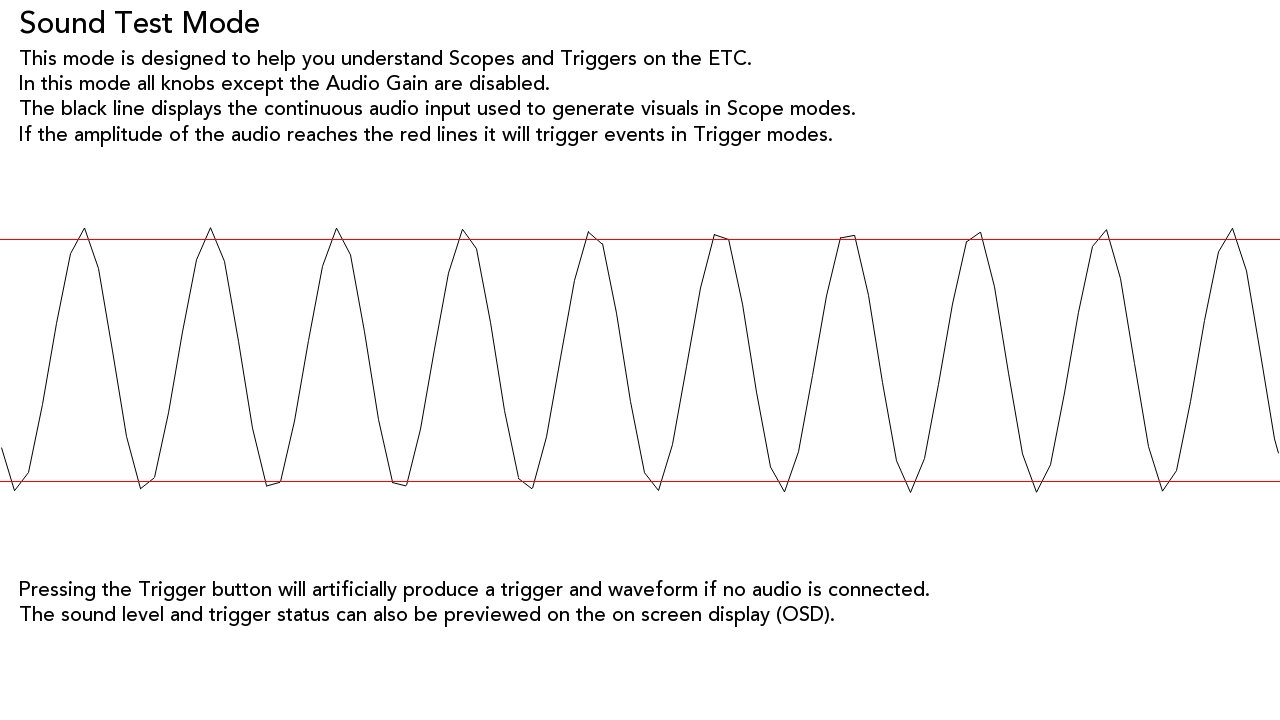
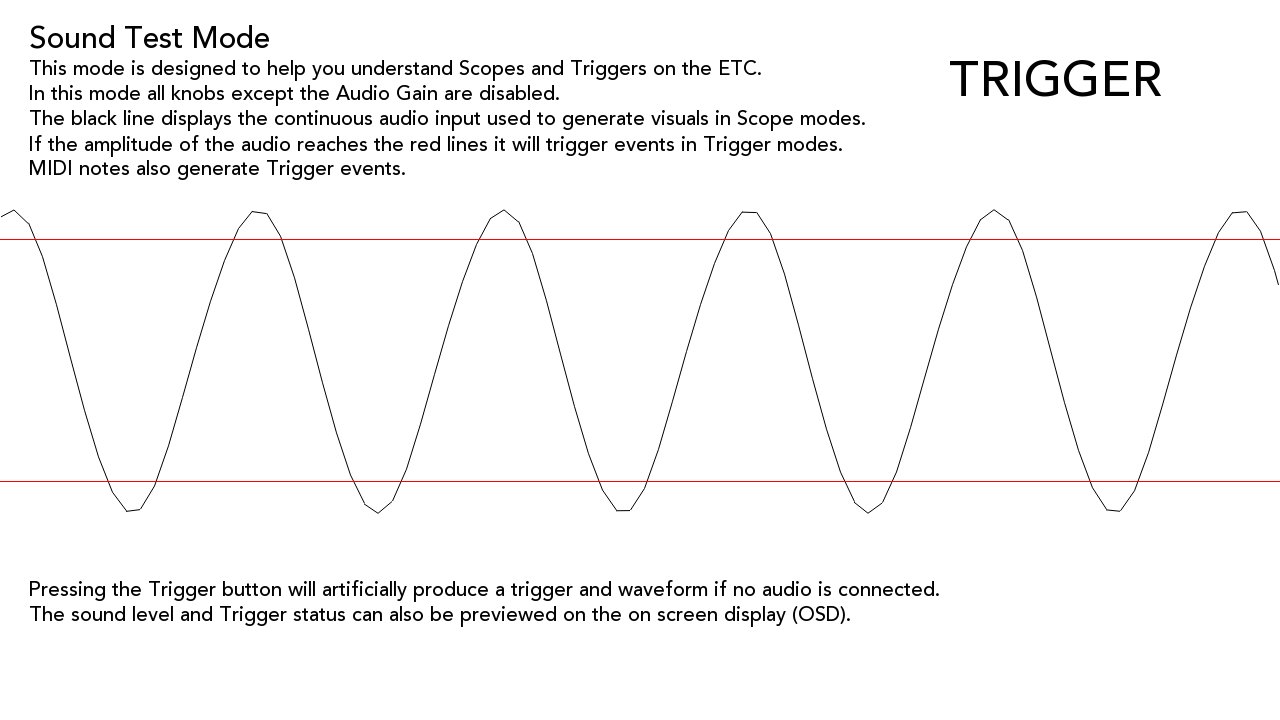
fix line, text

diff --git a/0 - Sound & MIDI Evaluation/main.py b/0 - Sound & MIDI Evaluation/main.py
@@ -15,13 +15,7 @@ def setup(screen, etc):
 
 def draw(screen, etc):
     global string1, trigger
-    # this is the user sound evaluation mode. 
-    #Designed to help you understand how an oscillascope mode works, and how sonic events are turned to triggers
-    # in this mode no knobs work, and the persist button except audio gain
-    # with the etc recieving sound from via the audio input jack the black line will display the waveform of that audio.
-    # if the amplitude of the audio reaches the red lines it will trigger
-    # you can also set a trigger with the onboard trigger button.
-    # the amplitude and trigger correspond to audio level meter and trigger box in the OSD
+    
     pygame.draw.rect(screen, (255,255,255), ((0,0),(1280,720)), 0)
     
     font1 = pygame.freetype.Font(etc.mode_root + "/font.ttf", 50)
@@ -31,37 +25,42 @@ def draw(screen, etc):
     font2 = pygame.freetype.Font(etc.mode_root + "/font.ttf", 30)
     string2 = unicode("Sound Test Mode")
     (text2, textpos2) = font2.render(string2, (0,0,0))
-    textpos2 = (20, 10)
+    textpos2 = (30, 25)
     
     font3 = pygame.freetype.Font(etc.mode_root + "/font.ttf", 20)
     string3 = unicode("This mode is designed to help you understand Scopes and Triggers on the ETC.")
     (text3, textpos3) = font3.render(string3, (0,0,0))
-    textpos3 = (20, 50)
+    textpos3 = (30, 60)
     
     
     string4 = unicode("In this mode all knobs except the Audio Gain are disabled.")
     (text4, textpos4) = font3.render(string4, (0,0,0))
-    textpos4 = (20, 75)
+    textpos4 = (30, 85)
     
     
     string5 = unicode("The black line displays the continuous audio input used to generate visuals in Scope modes.")
     (text5, textpos5) = font3.render(string5, (0,0,0))
-    textpos5 = (20, 100)
+    textpos5 = (30, 110)
     
     
     string6 = unicode("If the amplitude of the audio reaches the red lines it will trigger events in Trigger modes.")
     (text6, textpos6) = font3.render(string6, (0,0,0))
-    textpos6 = (20, 125)
+    textpos6 = (30, 135)
+    
+    
+    string6b = unicode("MIDI notes also generate Trigger events.")
+    (text6b, textpos6b) = font3.render(string6b, (0,0,0))
+    textpos6b = (30, 160)
     
     
     string7 = unicode("Pressing the Trigger button will artificially produce a trigger and waveform if no audio is connected.")
     (text7, textpos7) = font3.render(string7, (0,0,0))
-    textpos7 = (20, 580)
+    textpos7 = (30, 580)
     
     
-    string8 = unicode("The sound level and trigger status can also be previewed on the on screen display (OSD).")
+    string8 = unicode("The sound level and Trigger status can also be previewed on the on screen display (OSD).")
     (text8, textpos8) = font3.render(string8, (0,0,0))
-    textpos8 = (20, 605)
+    textpos8 = (30, 605)
     
     
     if trigger == False : string1 = unicode("")
@@ -81,6 +80,7 @@ def draw(screen, etc):
     screen.blit(text4, textpos4)
     screen.blit(text5, textpos5)
     screen.blit(text6, textpos6)
+    screen.blit(text6b, textpos6b)
     screen.blit(text7, textpos7)
     screen.blit(text8, textpos8)
     

diff --git a/S - Connected Scope/main.py b/S - Connected Scope/main.py
@@ -6,14 +6,13 @@ import random
 last_point = [0, 360]
 first_point = []
 
-color = (255,0,255)
-colorList = []
 
 def setup(screen, etc):
     pass
 
 def draw(screen, etc):
-    global last_point, first_point, color, colorList
+    global last_point, first_point
+    
     for i in range(0, 100) :
         lineseg(screen, etc, i)
     for i in range(0, 100) :
@@ -23,34 +22,30 @@ def draw(screen, etc):
     
 
 def lineseg(screen, etc, i):
-    global last_point, first_point, color, colorList
+    global last_point, first_point
     
-    linewidth = int(etc.knob1*100)+1
-    y1 = (screen.get_height() // 2) + (etc.audio_in[i] / 90)
+    linewidth = int(etc.knob1*75)+1
+    y1 = (screen.get_height() // 2) + (etc.audio_in[i] / 50)
     x = i * 10
     xoffset = (1280 - (99*10)) // 2
     color = etc.color_picker()
-    colorList = color# ( color[0]*((99-i)*.01), color[1], color[2] )
-    first_point = [(0*10)+xoffset, (screen.get_height() // 2) + (etc.audio_in[0] / 35)]
-    
+
     if i == 0 : 
-        last_point = first_point
+        first_point = last_point
     else :
         last_point = last_point
     
-    pygame.draw.line(screen, colorList, last_point, [x + xoffset, y1], linewidth)
+    pygame.draw.line(screen, color, last_point, [x + xoffset, y1], linewidth)
     last_point = [x + xoffset, y1]
 
 def ballseg(screen, etc, i):
-    global color, colorList
     
-    ballwidth = int(etc.knob2*100)+1
-    y1 = (screen.get_height() // 2) + (etc.audio_in[i] / 90)
+    ballwidth = int(etc.knob2*75)+1
+    y1 = (screen.get_height() // 2) + (etc.audio_in[i] / 50)
     x = i * 10
     xoffset = (1280 - (99*10)) // 2
-    color = color #etc.color_picker()
-    #colorList = ( color[0]*((99-i)*.01), color[1], color[2] )
+    color = etc.color_picker()
     
-    pygame.draw.circle(screen,colorList,(x + xoffset, y1),ballwidth, 0)
+    pygame.draw.circle(screen,color,(x + xoffset, y1),ballwidth, 0)
     
     
